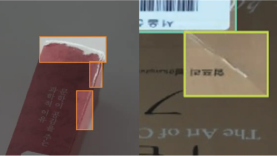
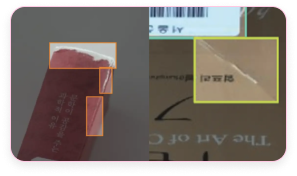
img effects & font

diff --git a/src/App.js b/src/App.js
@@ -108,9 +108,10 @@ export const Desc = ({fullpageApi}) => {
         
           <div className='description'>
             <p>Hello! 🙌</p>
-            <p>I am Sumin, first-year Ph.D. student in <a href='https://cse.nd.edu/' target='_blank'><span className='exp-semibold'>Computer Science and Engineering @University of Notre Dame</span></a>.
+            <p>I am Sumin, interested with intuitive <span className='exp-semibold'>interaction/representation</span> with <span className='exp-semibold'>creativity</span> and <span className='exp-semibold'>multi-modality fusion</span> in the context of the <span className='exp-semiboltalic'>Human-AI Interaction</span>.</p>
+            <p>I am a first-year Ph.D. student in <a href='https://cse.nd.edu/' target='_blank'><span className='exp-semibold'>Computer Science and Engineering @University of Notre Dame</span></a>.
             I work with <a href='https://toby.li/'><span className='exp-semiboltalic'>Prof. Toby Jia-Jun Li</span>. </a> 
-            My interests lie in intuitive interaction techniques with <span className='exp-semibold'>multi-modality fusion</span> in the context of the <span className='exp-semiboltalic'>Human-AI Interaction</span>.
+            {/* My interests lie in intuitive interaction techniques with <span className='exp-semibold'>multi-modality fusion</span> in the context of the <span className='exp-semiboltalic'>Human-AI Interaction</span>. */}
             <br/></p> 
           </div>
 
@@ -127,9 +128,11 @@ export const Desc = ({fullpageApi}) => {
       </div>
       <div className='introdesc'>
         <p>Hello! 🙌</p>
-        <p>I am Sumin, first-year Ph.D. student in <a href='https://cse.nd.edu/' target='_blank'><span className='exp-semibold'>Computer Science and Engineering @University of Notre Dame</span></a>.
+        <p>I am Sumin, interested with intuitive <span className='exp-semibold'>interaction/representation</span> with <span className='exp-semibold'>creativity</span> and <span className='exp-semibold'>multi-modality fusion</span> in the context of the <span className='exp-semiboltalic'>Human-AI Interaction</span>.</p>
+        <p>I am a first-year Ph.D. student in <a href='https://cse.nd.edu/' target='_blank'><span className='exp-semibold'>Computer Science and Engineering @University of Notre Dame</span></a>.
          I work with <a href='https://toby.li/'><span className='exp-semiboltalic'>Prof. Toby Jia-Jun Li</span>. </a> 
-         My interests lie in intuitive interaction techniques with <span className='exp-semibold'>multi-modality fusion</span> in the context of the <span className='exp-semiboltalic'>Human-AI Interaction</span>.</p> 
+         {/* My interests lie in intuitive interaction techniques with <span className='exp-semibold'>multi-modality fusion</span> in the context of the <span className='exp-semiboltalic'>Human-AI Interaction</span>. */}
+         </p> 
         {/* <br/> */}
         {/* <p>I like playing soccer ⚽, enjoying the art & music 🎶, and drinks...🥂 <br/> These are my <a href='https://www.instagram.com/dripdropdr'>Instagram</a> and <a href='https://www.youtube.com/channel/UCacXdIyd3o-hKJ74mosgQhw'>Youtube</a>!</p> */}
         {/* <p>Please feel free to<button onClick={copyToClipboard} style={{cursor:"pointer", fontFamily:"inherit", fontSize:"inherit"}}>email</button>me if you'd like to chat with!</p> */}
@@ -148,7 +151,7 @@ export const Research = () => {
       <p className='research-title'>Publications</p>
 
       <div className='subresearch'>
-        <p className='subtitle'>Human-Computer Interaction</p>
+        {/* <p className='subtitle'>Human-Computer Interaction</p> */}
 
         <div className='research-container'>
           <div className='image'>
@@ -164,7 +167,57 @@ export const Research = () => {
             </p>
             <p>DaEun Choi, <span className='exp-bold'>Sumin Hong</span>, Jeongeon Park, John Joon Young Jung, and Juho Kim
             </p>
+            <div className='menu'>
+              <img src='screen/hci.png'></img>
+              <a href='screen/chi2024.pdf'><img src='screen/paper.png'></img></a>
+              <a href='https://creativeconnect.kixlab.org/'><img src='screen/website.png'></img></a>
+            </div>
 
+          </div>
+        </div>
+        
+        <div className='research-container'>
+          <div className='image'>
+            <img src='screen/icassp2024.png'/>
+          </div>
+          <div className='desc'>
+            <p>ICASSP 2024</p>
+            <p><a href='https://doi.org/10.1109/ICASSP48485.2024.10446428' target='_blank'>Class-wise Buffer Management for Incremental Object Detection: an Effective Buffer Training Strategy</a></p>
+            <p>Junsu Kim, <span className='exp-bold'>Sumin Hong</span>, Chanwoo Kim, Jihyeon Kim, Yihalem Yimolal Tiruneh, Jeongwan On, Jihyun Song, Sunhwa Choi, and Seungryul Baek</p>
+            <div className='menu'>
+              <img src='screen/ml.png'></img>
+              <a href='screen/icassp2024.pdf'><img src='screen/paper.png'></img></a>
+            </div>
+          </div>
+        </div>
+
+        <div className='research-container'>
+          <div className='image'>
+            <img src='screen/csse.png'/>
+          </div>
+          <div className='desc'>
+            <p>Computer Systems Science and Engineering, 47(2), 1611-1632, 2023</p>
+            <p><a href='https://doi.org/10.32604/csse.2023.038319' target='_blank'>Automatic Examination of Condition of Used Books with YOLO-based Object Detection Framework</a></p>
+            <p><span className='exp-bold'>Sumin Hong</span> and Jin-woo Jeong</p>
+            <div className='menu'>
+              <img src='screen/ml.png'></img>
+              <a href='screen/csse.pdf'><img src='screen/paper.png'></img></a>
+            </div>
+          </div>
+        </div>
+
+        <div className='research-container'>
+          <div className='image'>
+            <img src='screen/eccv2023.png'/>
+          </div>
+          <div className='desc'>
+            <p>ECCV 2023 Workshop on Affective Behavior Analysis in-the-Wild</p>
+            <p><a href='https://doi.org/10.1007/978-3-031-25075-0_5' target='_blank'>Ensemble of Multi-task Learning Networks for Facial Expression Recognition In-the-Wild with Learning from Synthetic Data</a></p>
+            <p>Jae-yeop Jeong<sup>1</sup>, Young-gi Hong<sup>1</sup>, <span className='exp-bold'>Sumin Hong<sup>1</sup></span>, Jiyeon Oh<sup>1</sup>, Yuchul Jung, Sang-Ho Kim and Jin-woo Jeong</p>
+            <div className='menu'>
+              <img src='screen/ml.png'></img>
+              <a href='screen/eccv2023.pdf'><img src='screen/paper.png'></img></a>
+            </div>
           </div>
         </div>
 
@@ -178,54 +231,13 @@ export const Research = () => {
               {/* <span className='supple'><a href='screen/etra2022.pdf' target='_blank'>paper</a></span> */}
             </p>
             <p>Daun Kim<sup>1</sup>, Jae-yeop Jeong<sup>1</sup>, <span className='exp-bold'>Sumin Hong</span>, Namsub Kim, and Jin-woo Jeong</p>
+            <div className='menu'>
+              <img src='screen/hci.png'></img>
+              <a href='screen/etra2022.pdf'><img src='screen/paper.png'></img></a>
+            </div>
           </div>
         </div>
 
-      </div>
-      
-      <div className='subresearch'>
-      <p className='subtitle'>Applied Machine Learning</p>
-        <div className='research-container'>
-          <div className='image'>
-            <img src='screen/icassp2024.png'/>
-          </div>
-          <div className='desc'>
-            <p>ICASSP 2024</p>
-            <p><a href='https://doi.org/10.1109/ICASSP48485.2024.10446428' target='_blank'>Class-wise Buffer Management for Incremental Object Detection: an Effective Buffer Training Strategy</a></p>
-            <p>Junsu Kim, <span className='exp-bold'>Sumin Hong</span>, Chanwoo Kim, Jihyeon Kim, Yihalem Yimolal Tiruneh, Jeongwan On, Jihyun Song, Sunhwa Choi, and Seungryul Baek</p>
-            {/* <div className='menu'>
-              <a href='screen/icassp2024.pdf' target='_blank'><span>paper</span></a>
-            </div> */}
-          </div>
-        </div>
-
-        <div className='research-container'>
-          <div className='image'>
-            <img src='screen/csse.png'/>
-          </div>
-          <div className='desc'>
-            <p>Computer Systems Science and Engineering, 47(2), 1611-1632, 2023</p>
-            <p><a href='https://doi.org/10.32604/csse.2023.038319' target='_blank'>Automatic Examination of Condition of Used Books with YOLO-based Object Detection Framework</a></p>
-            <p><span className='exp-bold'>Sumin Hong</span> and Jin-woo Jeong</p>
-            {/* <div className='menu'>
-              <a href='screen/csse.pdf' target='_blank'><span>paper</span></a>
-            </div> */}
-          </div>
-        </div>
-
-        <div className='research-container'>
-          <div className='image'>
-            <img src='screen/eccv2023.png'/>
-          </div>
-          <div className='desc'>
-            <p>ECCV 2023 Workshop on Affective Behavior Analysis in-the-Wild</p>
-            <p><a href='https://doi.org/10.1007/978-3-031-25075-0_5' target='_blank'>Ensemble of Multi-task Learning Networks for Facial Expression Recognition In-the-Wild with Learning from Synthetic Data</a></p>
-            <p>Jae-yeop Jeong<sup>1</sup>, Young-gi Hong<sup>1</sup>, <span className='exp-bold'>Sumin Hong<sup>1</sup></span>, Jiyeon Oh<sup>1</sup>, Yuchul Jung, Sang-Ho Kim and Jin-woo Jeong</p>
-            {/* <div className='menu'>
-              <a href='screen/eccv2023.pdf' target='_blank'><span>paper</span></a>
-            </div> */}
-          </div>
-        </div>
       </div>
     </div>
   )

diff --git a/src/App.css b/src/App.css
@@ -1,5 +1,6 @@
 .App {
-  color:#252324
+  color:#2f2c2e;
+  /* background-color: #fbfbfb; */
 }
 
 .fp-watermark {
@@ -16,7 +17,6 @@
 
 .contents {
   /* position: relative; Background 위에 올라오도록 설정 */
-  z-index: 1;
 }
 
 .profile{
@@ -115,7 +115,7 @@
 }
 
 .profile .intro .link{
-  font-size: 1.5vw;
+  font-size: 1.4vw;
   font-family: "Crimson Text", serif;
   font-weight: 400;
   font-style: normal;
@@ -125,18 +125,18 @@
 }
 
 .profile .intro .link-cv{
-  font-size: 1.5vw;
+  font-size: 1.4vw;
   font-family: "Crimson Text", serif;
   font-weight: 600;
   font-style: normal;
 
-  margin-top:1vh;
+  margin-top:0.5vh;
   margin-bottom:0vh;
 }
 
 .profile .intro .lastupdated{
-  font-size: 0.8vw;
-  font-family: "Crimson Text", serif;
+  font-size: 0.7vw;
+  font-family: "Albert Sans";
   font-weight: 400;
   font-style: normal;
   color:#a2a2a2;
@@ -157,11 +157,13 @@
   gap:3vw;
   margin-bottom: 5vh;
   padding-left: 0.5vw;
+  font-family: "Crimson Pro", serif;
 }
 
 .research-container img{
   width:26vh;
-  border: 1px solid #FFC9E3;
+  /* border: 1px solid #FFC9E3; */
+  /* border-radius: 7% 7% 7% 7% ; */
 }
 
 /* .research-container .desc{
@@ -174,26 +176,43 @@
 }
 
 .research-container .desc p:first-child{
-  font-size: 1vw;
-  font-family: "Crimson Text", serif;
+  font-size: 0.8vw;
+  /* font-style: italic; */
+  /* font-family: "Albert Sans"; */
+  /* letter-spacing: -0.05vw; */
+  font-family: "Crimson Text";
+  font-weight: 400;
+  color: #6c6c6c;
 }
 
 .research-container .desc p:nth-child(2){
   font-size:1.2vw;
   font-weight: 700;
+  letter-spacing: 0vw;
+  color: #353535;
+  /* font-family: "Albert Sans"; */
+  font-family: "Crimson Text";
 }
 
 .research-container .desc p:nth-child(3){
-  font-size:1vw;
+  font-size:0.85vw;
+  color: #484848;
+  font-family: "Crimson Pro";
+  /* font-family: "Albert Sans"; */
 }
 
 .menu {
   align-items: flex-start;
   display: inline-flex;
-  gap: 1vw;
+  gap: 0.5vw;
   position: relative;
   margin-top: 0.5vh;
   color:#E071A7;
+}
+
+.menu img {
+  height:1.2vw;
+  width:auto;
 }
 
 .menu span{
@@ -227,13 +246,13 @@
 }
 
 .contents-desc .name-tag{
-  margin-bottom: 5vh;
-  
+  margin-bottom: 5vh;  
 }
 
 .contents-desc .introdesc p{
   margin-top: 1vh;
   margin-bottom: 1vh;
+  color: #353535;
 
   /* additional padding */
   padding-right: 13vw;
@@ -262,19 +281,21 @@
 
 .contents-desc .research-title{
   font-size: 3vw;
-  font-family: "Crimson Text", serif;
+  font-family: "Crimson Pro", serif;
   font-weight: 700;
   font-style: italic;
 
   margin: 0vh;
   margin-top: 15vh;
+  margin-bottom: 5vh;
 }
 
 .contents-desc .subtitle{
-  font-size: 1.3vw;
-  font-family: "Crimson Text", serif;
+  font-size: 1.1vw;
+  font-family: "Crimson Pro", serif;
   font-weight: 400;
-  font-style: italic;
+  color: #FFC9E3;
+  /* font-style: italic; */
   /* margin: 0vh; */
 }
 
@@ -292,6 +313,7 @@
   font-family: "Crimson Pro", serif;
   font-weight: 700;
   font-style: normal;
+  color: #353535;
 
   padding: 0;
 

diff --git a/public/index.html b/public/index.html
@@ -27,7 +27,7 @@
     <script src="https://kit.fontawesome.com/196569ce1c.js" crossorigin="anonymous"></script>
     <link rel="preconnect" href="https://fonts.googleapis.com">
     <link rel="preconnect" href="https://fonts.gstatic.com" crossorigin>
-    <link href="https://fonts.googleapis.com/css2?family=Crimson+Text:ital,wght@0,400;0,600;0,700;1,400;1,600;1,700&display=swap" rel="stylesheet">
+    <link href="https://fonts.googleapis.com/css2?family=Albert+Sans:ital,wght@0,100..900;1,100..900&family=Crimson+Pro:ital,wght@0,200..900;1,200..900&family=Crimson+Text:ital,wght@0,400;0,600;0,700;1,400;1,600;1,700&display=swap" rel="stylesheet">
     <title>Sumin Hong</title>
   </head>
   <body>
